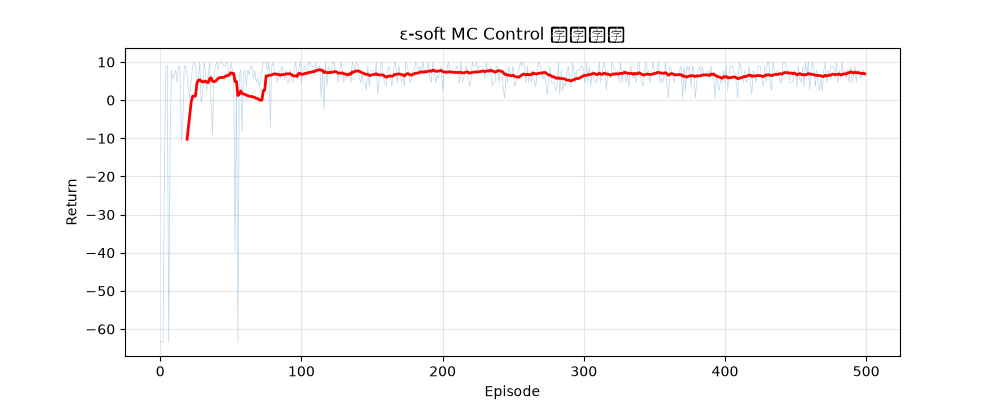
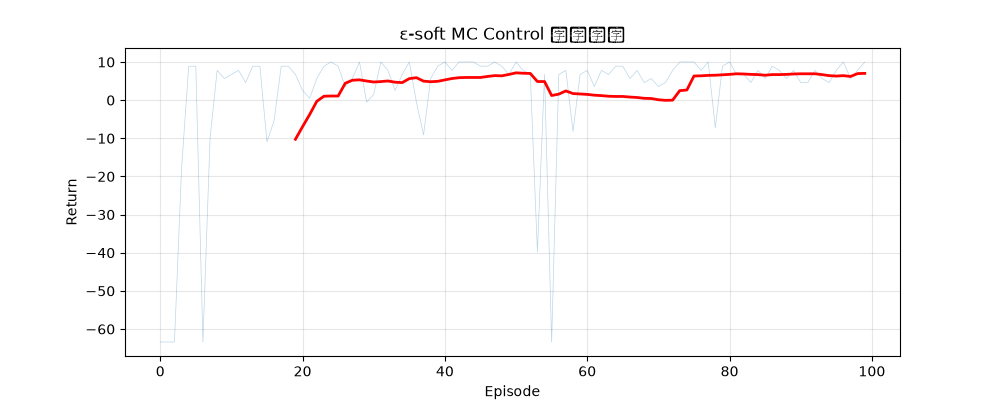
fix: A2C ready_to_update, PPO seed wiring, import os ordering, DQN path
- A2C: add ready_to_update property, fix mutable defaults
- PPO: wire seed parameter through to BaseAgent
- Fix import os ordering (os used before import in 3 notebooks)
- Fix DQN notebook missing sys.path setup
- Remove remaining hardcoded paths

Tests: 21/21 passing, 26/26 syntax-clean

diff --git a/rl_course/agents/a2c.py b/rl_course/agents/a2c.py
@@ -134,6 +134,11 @@ class A2CAgent(BaseAgent):
         self.terminated_list: List[bool] = []     # 真正终止
         self.next_values: List[float] = []         # V(s_{t+1}), 在 env.reset() 前计算
 
+    @property
+    def ready_to_update(self) -> bool:
+        """是否已收集足够步数用于 n-step 更新"""
+        return len(self.states) >= self.n_steps
+
     def store(
         self, reward: float, terminated: bool, truncated: bool,
         next_value: float,

diff --git a/rl_course/agents/ppo.py b/rl_course/agents/ppo.py
@@ -102,7 +102,7 @@ class PPOAgent(BaseAgent):
                        超过阈值时停止剩余 epochs。None 表示不提前停止。
             device: 计算设备，默认 "cpu"
         """
-        super().__init__()
+        super().__init__(seed=seed)
 
         # ==================== 超参数 ====================
         self.state_dim: int = state_dim
